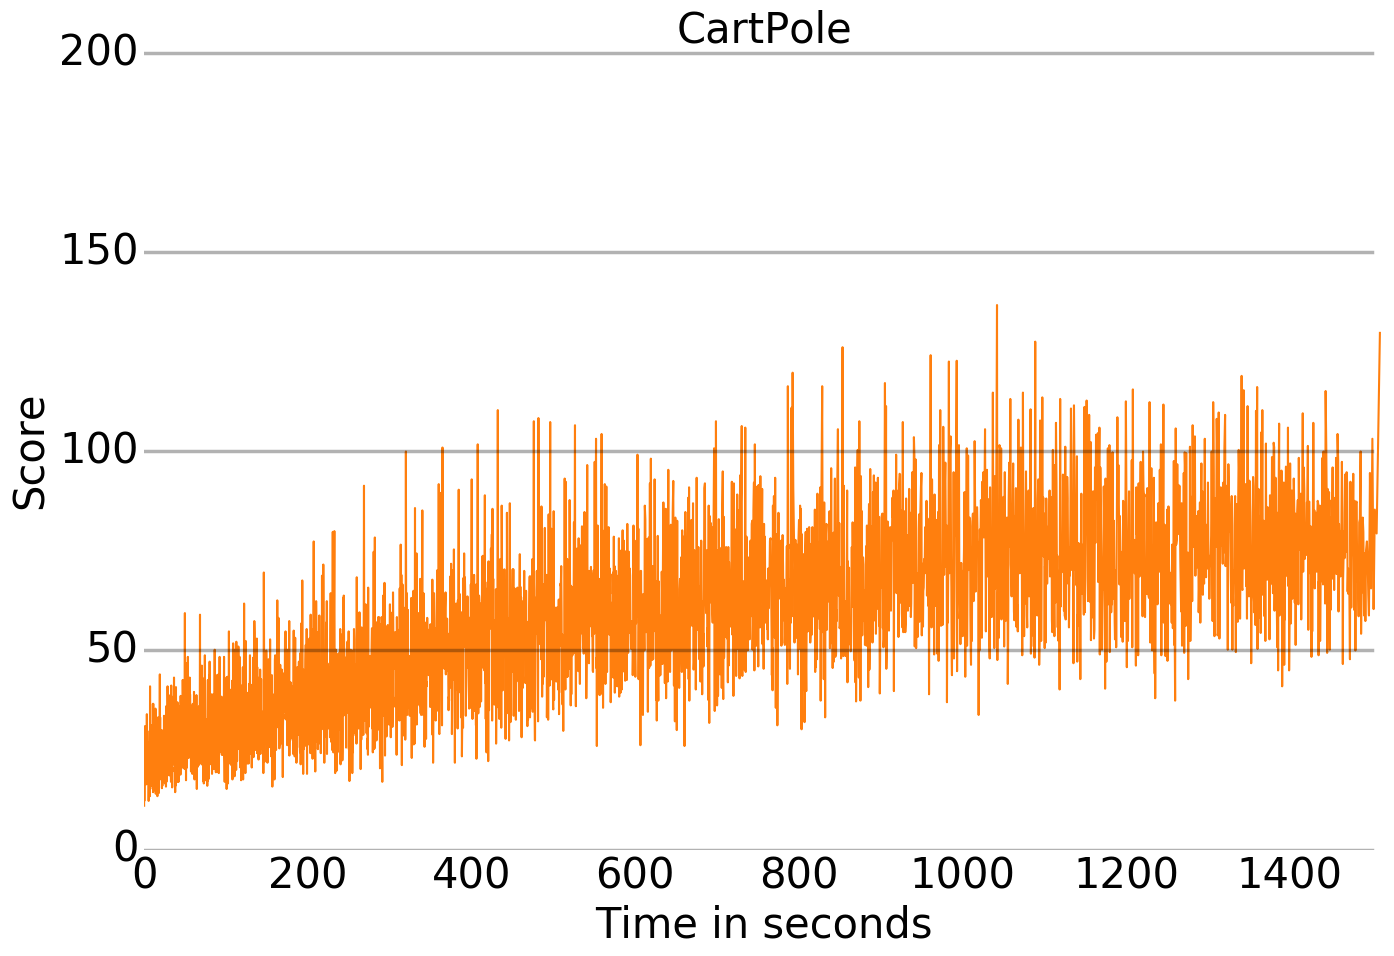
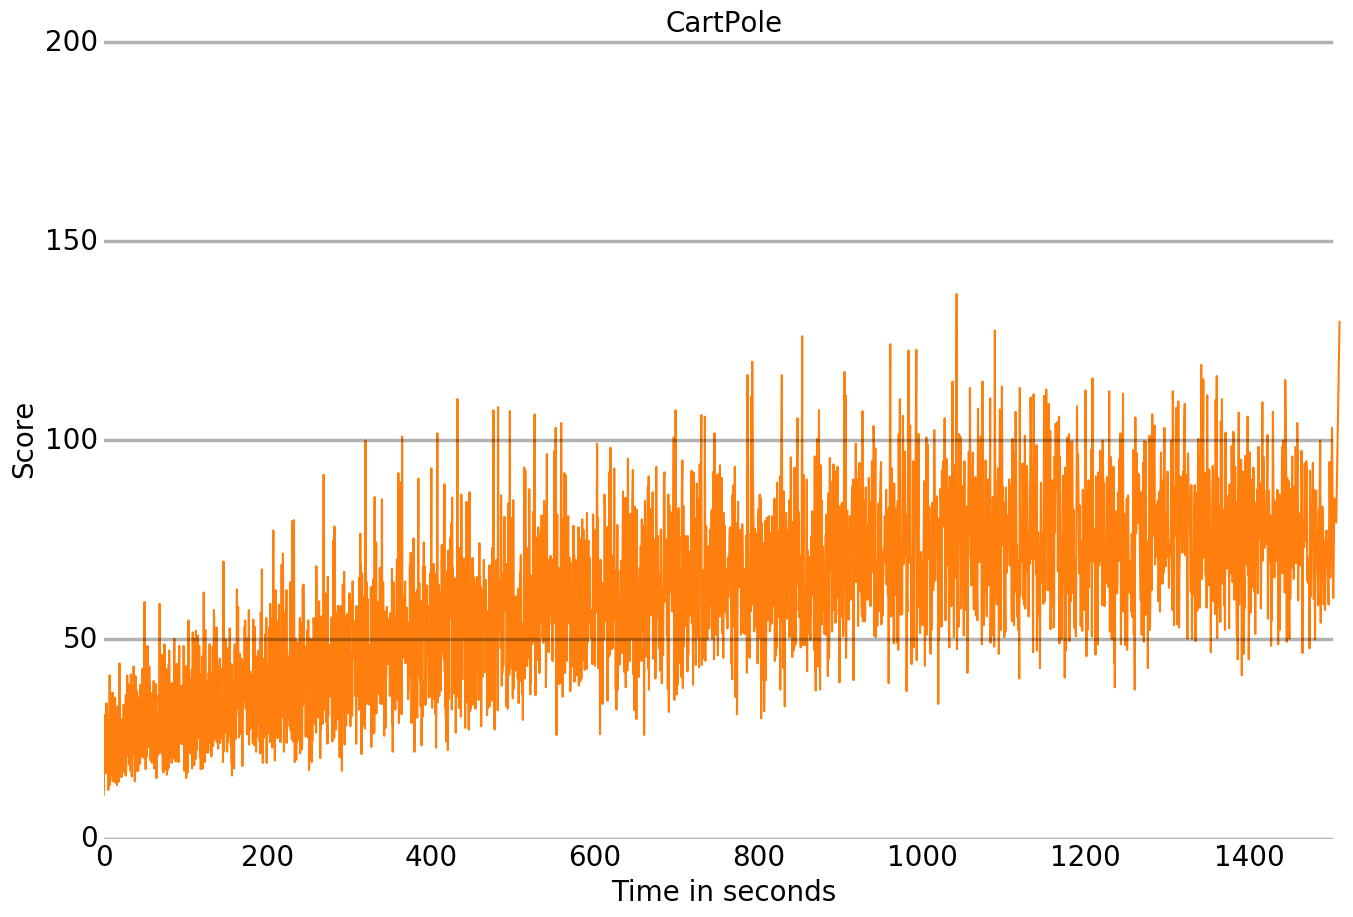
Results and more corrections

Changed region(s): [[0.0, 0.3359, 0.9933, 1.0], [0.031, 0.0, 0.9933, 0.0916], [0.031, 0.2443, 0.1242, 0.2748]]

diff --git a/report/results.tex b/report/results.tex
@@ -4,78 +4,317 @@
 
 \section{Results}
 
-For each of the experiments discussed in the previous section,
-we will be using \textit{timesteps} as a time unit.
-In both Cartpole and Atari games a timestep corresponds to
-taking an action, however it is defined for the game.
-In CartPole an action is taken in each state, but in the Atari games
-there the action is repeated four times.
+For each of the experiments described in the previous section, we will be using
+\textit{timesteps} as a time unit.
+The time step is increased every time an action is performed and a new state is encountered.
+Thus it describes the amount of state transitions performed, and in order to make the setting
+fair for all the thread settings, the training was done such that all of the settings
+made the same amount of transitions.
 
-\subsection{Actor-Critic with eligibility traces}
+\subsection{Playing CartPole - Actor-Critic with eligibility traces}
 
-In figure \ref{fig:cp_et} the results of our experiments using the Actor-Critic method with eligibility
-traces are shown.
-The experiments were run five consecutive times on an Intel(R) Xeon(R) CPU E5-2670 v2 @ 2.50GHz\cite{intel}, for $200.000$ timesteps each.
-
-
+For this experiment our implementation was allowed to take at most 200.000 timesteps.
+The pace of learning depends on the “luck” of the exploration.
+Therefore we ran the experiment five times to only show the average performance of
+the algorithm.
+In figure \ref{fig:cp_et} the results of the experiment is shown
+as a function of real-time and timesteps.
+Since this method is using only a single thread the two plots should show the same.
 % Template
 \begin{figure}[H]
-    \begin{subfigure}{.5\textwidth}
+    \begin{tabular}[c]{c}
+    \begin{subfigure}{\textwidth}
         \centering
-        \includegraphics[scale=0.25]{include/template.jpg}
+        \fbox{\includegraphics[scale=0.4]{plots/eligibility_steps.png}}
         \caption{The score of the Actor-Critic method with eligibility
             traces as a function of the number of timesteps
             the algorithm have been running.}
     \end{subfigure}
-    \begin{subfigure}{.5\textwidth}
+    \end{tabular}
+    \begin{tabular}[c]{c}
+    \begin{subfigure}{\textwidth}
         \centering
-        \includegraphics[scale=0.25]{include/template.jpg}
+        \fbox{\includegraphics[scale=0.415]{plots/eligibility_time.png}}
         \caption{The score of the Actor-Critic method with eligibility
             traces as a function of the real-time the algorithm
             have been running.}
     \end{subfigure}
+    \end{tabular}
     \caption{Average results of five runs of the Actor-Critic method
-        with eligibility traces. The [indsæt farve] is the plot of the
-        raw results and the [indsæt farve] is a plot that describes the
-        mean of the the [K] surrounding data points.} 
+    with eligibility traces.} 
      \label{fig:cp_et}
 \end{figure}
 
-Skriv noget om hvad vi ser.
+Unlike the Atari games, CartPole can be won if the player reaches a score of 200.
+The results of our experiments suggest that
+the method isn't able to learn to solve the game completely,
+since the highest mean score is 138.8, which is achieved after 139.688 timesteps.
+However, that it was able to achieve this score shows
+that it learned a decent policy - just not the optimal one.
+This result reinforces the hypothesis that the implementation of the
+Actor-Critic method with eligibility traces is suboptimal, even
+though the average mean increased over the course of the experiment.
+It is notable that the method is stable in the sense that once it has found
+a policy, it won't learn a policy that produces a worse result.
 
-\subsection{A3C - Cartpole}
 
-For this method we also ran our experiments for $200.000$ timesteps
-five consecutive times.
-We have run experiments for five different thread settings - 16, 8, 4, 2 and 1.
-Each of the experiments had access to one Intel(R) Xeon(R) CPU E5-2670 v2 @ 2.50GHz for each thread it spawned.
-Figure \ref{fig:a3c_cp_all} shows the average result of the experiments.
-The graphs are smoothed such that each data point is equivalent to
-the mean of the [K] surrounding points.
+\subsection{Playing CartPole - A3C}
+
+In this experiment we also allowed the implementation to run for
+200.000 timesteps.
+Again the experiment was run five times to avoid “lucky”, and “unlucky”, runs
+interferring with the result. 
+Figure \ref{fig:a3c_time_steps} and \ref{fig:a3c_time} shows the average result of the experiments for all thread settings - that is 16 threads, 8 threads, 4 threads,
+2 threads and 1 thread.
+Due to the natural variance in the results, as is prominent in figure \ref{fig:cp_et},
+we have smoothed the results such that each point represent the mean of the 50
+surrounding points.
+We have applied the smoothing to make the plots more readable and
+thus they should only be interpreted as the “trend” of the
+result.
 
 \begin{figure}[H]
-    \begin{subfigure}{.5\textwidth}
-        \centering
-        \includegraphics[scale=0.25]{include/template.jpg}
-        \caption{The score of the A3C method as a function
-        of the number of timesteps the algorithm have been running for
-        all amounts of threads.}
-    \end{subfigure}
-    \begin{subfigure}{.5\textwidth}
-        \centering
-        \includegraphics[scale=0.25]{include/template.jpg}
-        \caption{The score of the A3C method as a function
-        of the real-time the algorithm have been running for
-        all amounts of threads}
-    \end{subfigure}
-    \caption{Average results of five runs of A3C method on the CartPole
-        game for each thread setting. The plots describe the mean of
-        the surrounding [K] points.}
-     \label{fig:a3c_cp_all}
+    \centering
+    \includegraphics[scale=0.4]{plots/cartpole_compare_counter_without_AC.png}
+    \caption{The score of the A3C method in CartPole as a function
+    of the number of timesteps the algorithm have been running.}
+    \label{fig:a3c_time_steps}
 \end{figure}
 
-Skriv noget om resultatet.
+For all the different amounts of threads used it the implementation
+is converging towards a constant mean score of 200 and even reaches
+it for 16 threads.
+It seems like the implementation is stable for all thread settings, with a slight
+drop in performance after roughly half the timesteps using 8 threads.
+This result was not unexpected, as the same amount of timesteps should produce similar
+scores for this relatively simple problem.
+
+\begin{figure}[H]
+    \centering
+    \includegraphics[scale=0.4]{plots/cartpole_compare_time_without_AC.png}
+    \caption{The score of the A3C method in CartPole as a function
+    of the amount of real-time the algorithm have been running.
+    Here the plot has been cut off after the first thread setting
+    terminated.}
+    \label{fig:a3c_time}
+\end{figure}
+
+It is notable that the plots of real-time and timesteps are almost identical, which
+is surprising since the usage of more threads didn't achieve a significant speedup
+in real-time used by the implementation.
 
 
+%\begin{figure}[H]
+%    \begin{tabular}[c]{c}
+%    \begin{subfigure}{\textwidth}
+%        \centering
+%        \includegraphics[scale=0.4]{plots/cartpole_compare_k50_steps.png}
+%        \caption{The score of the A3C method in CartPole as a function
+%        of the number of timesteps the algorithm have been running.}
+%    \end{subfigure}
+%    \end{tabular}
+%    \begin{tabular}[c]{c}
+%    \begin{subfigure}{\textwidth}
+%        \centering
+%        \includegraphics[scale=0.4]{plots/cartpole_compare_k50_time.png}
+%        \caption{The score of the A3C method in CartPole as a function
+%        of the amount of real-time the algorithm have been running.}
+%    \end{subfigure}
+%    \end{tabular}
+%    \caption{Average results of the A3C implementation playing the CartPole
+%        game. The plots describe the mean of the surrounding 50 points.}
+%     \label{fig:a3c_cp_all}
+%\end{figure}
+
+
+\subsubsection{Comparison between different amounts of threads}
+
+Figure \ref{fig:a3c_comp_steps} shows the average result obtained from running 200.000
+timesteps five times for each thread setting.
+
+\begin{figure}[H]
+  \centering   
+  \begin{tabular}[c]{cc}
+    \begin{subfigure}[c]{.5\textwidth}
+        \fbox{\includegraphics[width=0.95\textwidth]{plots/cartpole_1_threads.png}}
+        \caption{A3C playing CartPole using 1 thread.}
+        \label{cp:1}
+    \end{subfigure}
+    \begin{subfigure}[c]{.5\textwidth}
+        \fbox{\includegraphics[width=0.95\textwidth]{plots/cartpole_2_threads.png}}
+        \caption{A3C playing CartPole using 2 thread.}
+        \label{cp:2}
+    \end{subfigure}
+  \end{tabular}
+  \begin{tabular}[c]{cc}
+    \begin{subfigure}[c]{.5\textwidth}
+        \fbox{\includegraphics[width=0.95\textwidth]{plots/cartpole_4_threads.png}}
+        \caption{A3C playing CartPole using 4 thread.}
+        \label{cp:4}
+    \end{subfigure}
+    \begin{subfigure}[c]{.5\textwidth}
+        \fbox{\includegraphics[width=0.95\textwidth]{plots/cartpole_8_threads.png}}
+        \caption{A3C playing CartPole using 8 thread.}
+        \label{cp:8}
+    \end{subfigure}
+  \end{tabular}
+  \begin{tabular}[c]{c}
+    \begin{subfigure}[c]{.5\textwidth}
+        \fbox{\includegraphics[width=0.95\textwidth]{plots/cartpole_16_threads.png}}
+        \caption{A3C playing CartPole using 16 thread.}
+        \label{cp:16}
+    \end{subfigure}
+  \end{tabular}
+  \caption{The scores of all the different thread settings for the
+    A3C implementation playing CartPole as a function of timesteps taken.}
+     \label{fig:a3c_comp_steps}
+\end{figure}
+
+Again it seems as if the scores converge at roughly the same pace,
+upon further inspectation of the results.
+It is notable that the variance of in scores is also approximately
+the same for all thread settings, but only the experiment using 16 threads
+can keep a stable mean score of 200.
+
+
+\subsubsection{Comparison between A3C and Actor-Critic method using eligibility traces}
+
+Figure \ref{fig:a3c_comp_eligibility} shows a comparison between the
+results of the A3C algorithm and the Actor-Critic method with eligibility
+traces.
+The plots have been smoothed such that each point is the mean of the surrounding 50,
+to increase the readability of the comparison.
+Again the plots only show the trend of the results, but it will be sufficient
+for our aim.
+
+\begin{figure}[H]
+    \centering
+    \includegraphics[scale=0.4]{plots/cartpole_compare_counter_with_AC.png}
+    \caption{The results of the A3C algorithms different thread
+            settings compared to the result of the Actor-Critic method
+            with eligibility traces.}
+    \label{fig:a3c_comp_eligibility}
+\end{figure}
+
+From the comparison it is easy to see that the A3C algorithm is performing
+better in regards to pace of learning and overall final mean.
+However, the Actor-Critic with eligibity traces seem to present less variance
+in its mean scores and learning curve.
+
+\subsection{Playing Atari games}
+
+In CartPole we allowed our implementation to run for 200.000 timesteps.
+However, due to the immense computational time required to
+learn to solve the problem we have instead defined the limit of the
+Atari implementation as 16 hours worth of training time.
+
+Figure \ref{fig:all_atari} shows the average score over the amount of
+experiments that were performed for each of the games we tested.
+To show the trend of the A3C we smooth the plots such that
+each point represents the mean of the 500 surrounding points.
+
+\begin{figure}[H]
+  \begin{tabular}[c]{ccc}
+    \begin{subfigure}[t]{.33\textwidth}
+        \fbox{\includegraphics[width=.95\textwidth]{plots/spaceinvaders_intro.png}}
+        \caption{Score achieved in Space Invaders as a function of
+        consumed real-time.}
+    \end{subfigure}
+    \begin{subfigure}[t]{.33\textwidth}
+        \fbox{\includegraphics[width=.95\textwidth]{plots/breakout_intro.png}}
+        \caption{Score achieved in Breakout as a function of
+        consumed real-time.}
+    \end{subfigure}
+    \begin{subfigure}[t]{.32\textwidth}
+        \fbox{\includegraphics[width=.99\textwidth]{plots/pong_intro.png}}
+        \caption{Score achieved in Pong as a function of
+        consumed real-time.}
+    \end{subfigure}
+  \end{tabular}
+  \label{fig:all_atari}
+  \caption{Results for the three games we have tested our implementation
+           of A3C on.}
+\end{figure}
+
+From these results it seems as if the implementation is able to learn
+a decent policy for both Space Invaders and Breakout, but fails
+to learn how to play Pong.
+
+Upon further inspection of Space Invaders, it seems as if
+a higher amount of threads leads to a higher score, which is unsuspected
+compared to the results from the CartPole problem.
+In figure \ref{fig:a3c_spaceinvaders} a view of the results from
+playing Space Invaders with all the different thread settings.
+Here the plot has been smoothed such that each point represents the mean of the
+50 surrounding points.
+
+\begin{figure}[H]
+    \fbox{\includegraphics[width=.95\textwidth]{plots/spaceinvaders_compare_score_time.png}}
+    \caption{Score achieved in Space Invaders as a function of
+    consumed real-time.}
+    \label{fig:a3c_spaceinvader}
+\end{figure}
+
+Figure \ref{fig:a3c_spaceinvaders_ts} shows the same plot, with the
+exception that the score is a function of the timesteps taken
+during the experiment.
+
+\begin{figure}[H]
+    \fbox{\includegraphics[width=.95\textwidth]{plots/spaceinvaders_score_timesteps.png}}
+    \caption{Score achieved in Space Invaders as a function of
+    timesteps taken.}
+    \label{fig:a3c_spaceinvaders_ts}
+\end{figure}
+
+Examining this plot shows that the result of the A3C implementation
+on Space Invaders behaves the same way as A3C on CartPole if the threads
+were allowed to run for the same amount of timesteps.
+The same trend can be seen for Breakout, which is shown in figure
+\ref{fig:a3c_breakout_comp}.
+
+\begin{figure}[H]
+  \centering   
+  \begin{tabular}[c]{cc}
+    \begin{subfigure}[c]{.5\textwidth}
+        \fbox{\includegraphics[width=0.97\textwidth]{plots/breakout_compare_time.png}}
+
+        \caption{Score achieved in Breakout as a function of consumed real-time.}
+    \end{subfigure}
+    \begin{subfigure}[c]{.5\textwidth}
+
+        \fbox{\includegraphics[width=0.97\textwidth]{plots/breakout_steps.png}}
+        \caption{Score achieved in Breakout as a function of 
+        timesteps taken.}
+    \end{subfigure}
+  \end{tabular}
+  \caption{The scores of all the different thread settings for the
+    A3C implementation playing CartPole as a function of timesteps taken.}
+     \label{fig:a3c_breakout_comp}
+\end{figure}
+
+
+[ Skriv noget indledende til Pong resultater]
+
+\begin{figure}[H]
+  \centering   
+  \begin{tabular}[c]{cc}
+    \begin{subfigure}[c]{.5\textwidth}
+        \fbox{\includegraphics[width=0.97\textwidth]{plots/pong_time.png}}
+
+        \caption{Score achieved in Pong as a function of consumed real-time.}
+    \end{subfigure}
+    \begin{subfigure}[c]{.5\textwidth}
+
+        \fbox{\includegraphics[width=0.97\textwidth]{plots/pong_steps.png}}
+        \caption{Score achieved in Pong as a function of 
+        timesteps taken.}
+    \end{subfigure}
+  \end{tabular}
+  \caption{The scores of all the different thread settings for the
+    A3C implementation playing CartPole as a function of timesteps taken.}
+     \label{fig:a3c_breakout_comp}
+\end{figure}
+
+[ Skriv noget her om resultaterne ]
 
 \end{document}

diff --git a/report/td.tex b/report/td.tex
@@ -125,7 +125,7 @@ Thus an elegibility trace for the value estimator can be updated as
 where $\lambda$ is a discounting factor used to decrease the elegibility of a component
 over time.
 The trace describes the trend of the most recent gradients of the value function
-w.r.t $\mathbf{w}$, but we also want to base the update of the weights on their
+with respect to $\mathbf{w}$, but we also want to base the update of the weights on their
 performance.
 Since we want to improve the estimate of the value function, as we experience the effect of our actions,
 we update the weights proportionally to the one-step TD-error discussed in section \ref{sec:td}.
